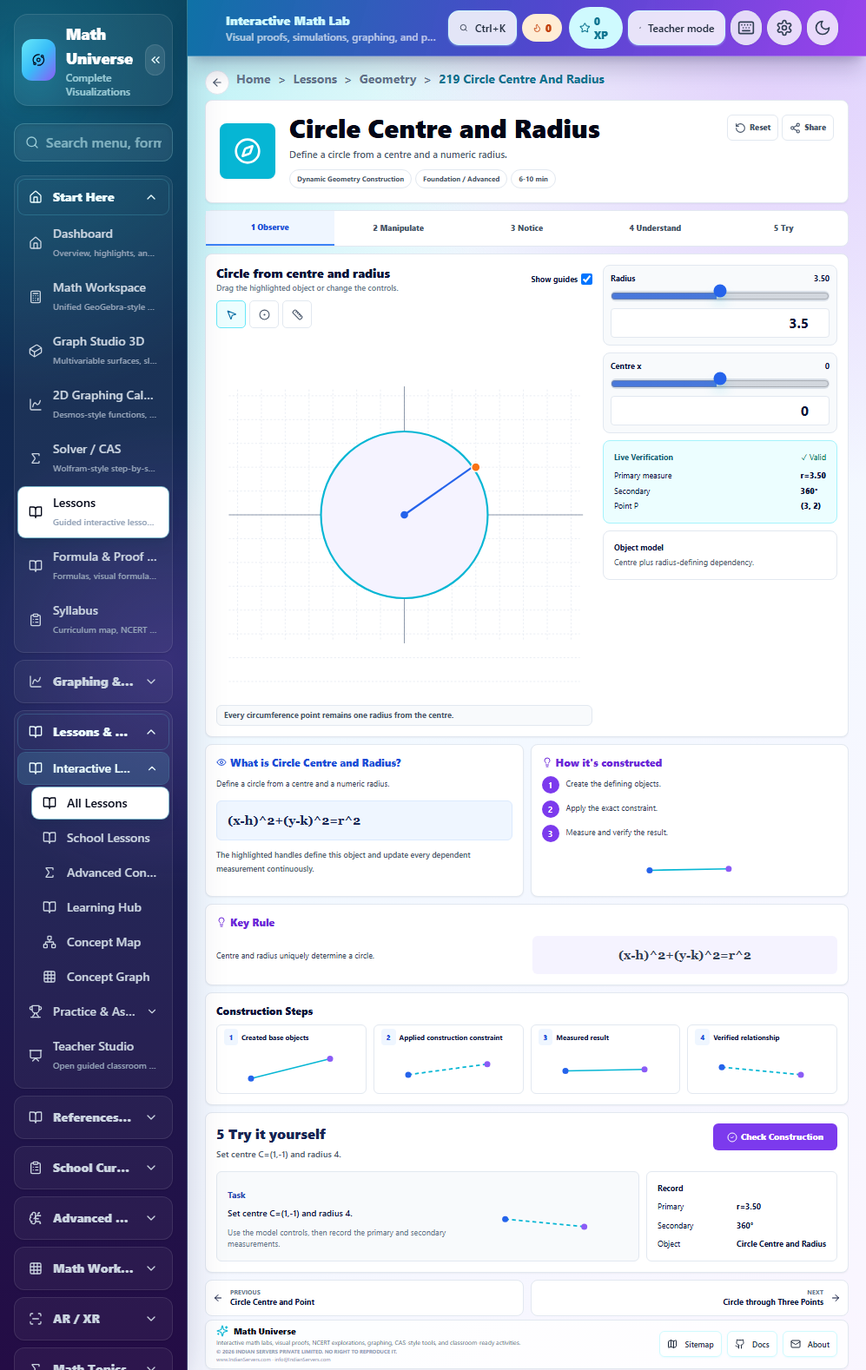
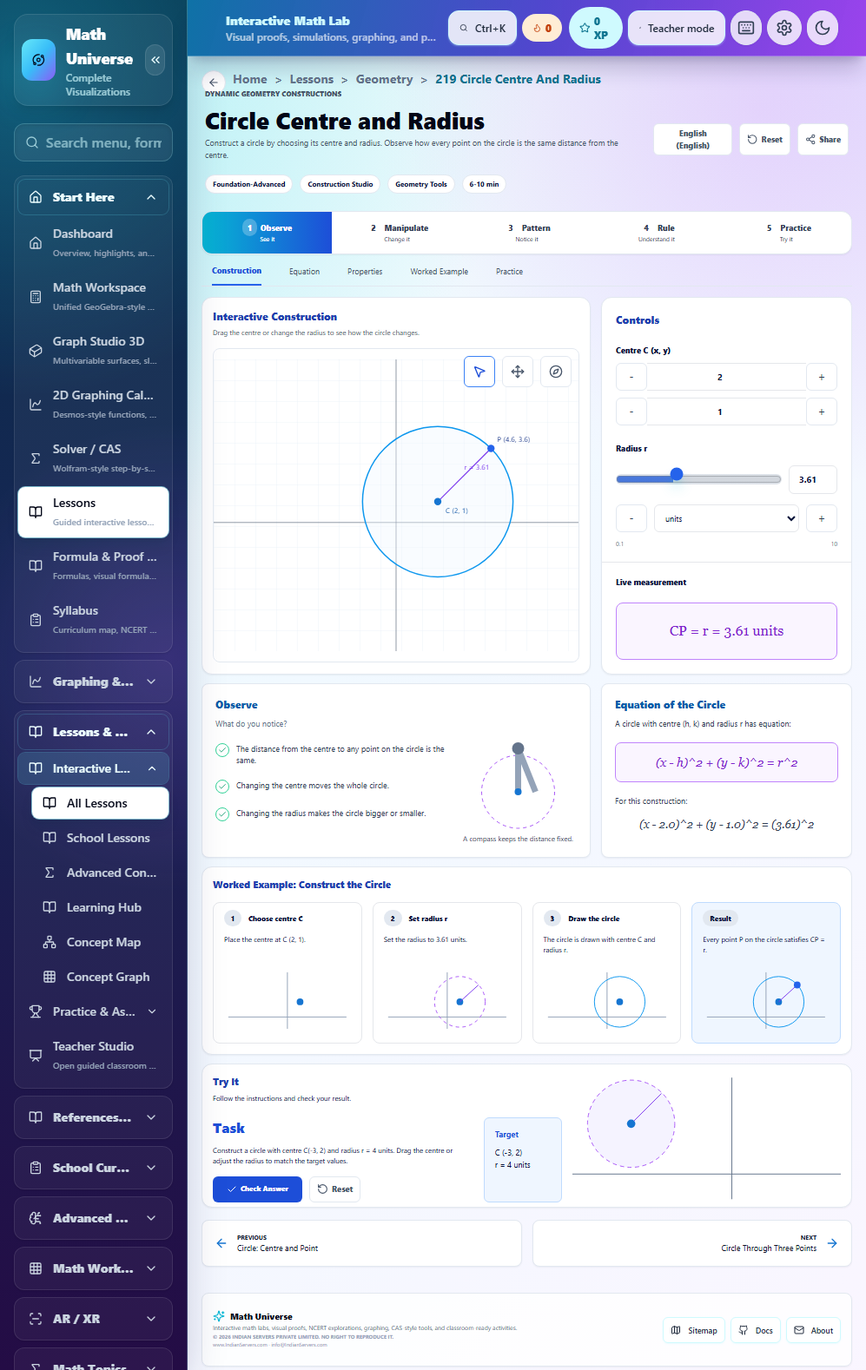
Rebuild circle centre radius lesson to match target UI

diff --git a/src/modules/lessons/adapters/CircleCentreRadiusTargetLesson219.tsx b/src/modules/lessons/adapters/CircleCentreRadiusTargetLesson219.tsx
@@ -1,0 +1,68 @@
+import {
+  ArrowLeft,
+  ArrowRight,
+  Check,
+  Compass,
+  Move,
+  MousePointer2,
+  RotateCcw,
+  Share2,
+} from "lucide-react";
+import {
+  useEffect,
+  useMemo,
+  useState,
+  type PointerEvent as ReactPointerEvent,
+} from "react";
+import type { LessonAdapterProps } from "../types";
+
+type Point={x:number;y:number};
+type Tool="select"|"move"|"compass";
+type Drag="centre"|"radius"|null;
+const initialCentre={x:2,y:1};
+const initialRadius=3.61;
+
+export default function CircleCentreRadiusTargetLesson219({resetToken,onInteraction}:LessonAdapterProps){
+  const [centre,setCentre]=useState<Point>(initialCentre);
+  const [radius,setRadius]=useState(initialRadius);
+  const [angle,setAngle]=useState(45);
+  const [tool,setTool]=useState<Tool>("select");
+  const [drag,setDrag]=useState<Drag>(null);
+  const [units,setUnits]=useState("units");
+  const [feedback,setFeedback]=useState<"idle"|"correct"|"incorrect">("idle");
+  const point=useMemo(()=>({x:centre.x+radius*Math.cos(angle*Math.PI/180),y:centre.y+radius*Math.sin(angle*Math.PI/180)}),[centre,radius,angle]);
+  const reset=()=>{setCentre(initialCentre);setRadius(initialRadius);setAngle(45);setTool('select');setUnits('units');setFeedback('idle');onInteraction()};
+  useEffect(()=>{setCentre(initialCentre);setRadius(initialRadius);setAngle(45);setTool('select');setUnits('units');setFeedback('idle')},[resetToken]);
+  const updateCentre=(next:Point)=>{setCentre({x:clamp(next.x,-6,6),y:clamp(next.y,-5,6)});setFeedback('idle');onInteraction()};
+  const updateRadius=(next:number)=>{setRadius(clamp(next,.1,10));setFeedback('idle');onInteraction()};
+  const check=()=>{setFeedback(Math.hypot(centre.x+3,centre.y-2)<.16&&Math.abs(radius-4)<.08?'correct':'incorrect');onInteraction()};
+
+  return <section className="space-y-3" style={{marginTop:-27}} data-testid="dynamic-geometry-mockup-0276" data-dedicated-lesson="219" data-object-model="circle-centre-fixed-radius" data-direct-interaction="true" aria-label="Circle Centre and Radius dedicated interactive geometry model">
+    <span className="sr-only">Live Verification. Check Construction.</span>
+    <header className="px-1 py-2"><div className="flex items-start justify-between gap-4"><div><p className="text-[8px] font-black uppercase text-slate-600">Dynamic Geometry Constructions</p><h1 className="mt-2 text-[27px] font-black leading-8 text-slate-950">Circle Centre and Radius</h1><p className="mt-1 text-[9px] text-slate-600">Construct a circle by choosing its centre and radius. Observe how every point on the circle is the same distance from the centre.</p></div><div className="mt-10 flex gap-2"><button type="button" className="target-geometry-action">English (English)</button><button type="button" className="target-geometry-action" onClick={reset}><RotateCcw/>Reset</button><button type="button" className="target-geometry-action" onClick={()=>{void navigator.clipboard?.writeText(location.href);onInteraction()}}><Share2/>Share</button></div></div><div className="mt-4 flex flex-wrap gap-2 text-[8px] font-bold"><span className="target-geometry-chip">Foundation-Advanced</span><span className="target-geometry-chip">Construction Studio</span><span className="target-geometry-chip">Geometry Tools</span><span className="target-geometry-chip">6-10 min</span></div></header>
+    <nav className="grid grid-cols-5 overflow-hidden rounded-xl border border-slate-200 bg-white shadow-sm">{[['Observe','See it'],['Manipulate','Change it'],['Pattern','Notice it'],['Rule','Understand it'],['Practice','Try it']].map(([label,sub],index)=><button type="button" key={label} className={`h-12 text-[9px] font-black ${index===0?'bg-gradient-to-r from-cyan-500 to-blue-700 text-white':'text-slate-700'}`} onClick={()=>{document.getElementById(index===4?'radius-practice':`radius-${index}`)?.scrollIntoView({behavior:'smooth',block:'center'});onInteraction()}}><span className="mr-1 rounded-full bg-white/25 px-1.5 py-1">{index+1}</span>{label}<small className="block text-[7px] font-normal">{sub}</small></button>)}</nav>
+    <nav className="flex gap-8 border-b border-slate-200 px-3 text-[9px] text-slate-600">{['Construction','Equation','Properties','Worked Example','Practice'].map((label,index)=><button type="button" key={label} className={`pb-2 ${index===0?'border-b-2 border-blue-600 font-black text-blue-700':''}`} onClick={()=>{document.getElementById(index===0?'radius-0':index===3?'radius-worked':index===4?'radius-practice':'radius-2')?.scrollIntoView({behavior:'smooth',block:'center'});onInteraction()}}>{label}</button>)}</nav>
+
+    <section id="radius-0" className="grid gap-3 md:grid-cols-[1.55fr_1fr]">
+      <div className="rounded-xl border border-slate-200 bg-white p-3 shadow-sm"><h2 className="text-[12px] font-black text-blue-800">Interactive Construction</h2><p className="mt-1 text-[8px] text-slate-600">Drag the centre or change the radius to see how the circle changes.</p><div className="relative mt-3 rounded-lg border border-slate-200"><div className="absolute right-2 top-2 z-10 flex gap-2"><Tool active={tool==='select'} label="Select" icon={<MousePointer2/>} onClick={()=>setTool('select')}/><Tool active={tool==='move'} label="Move circle" icon={<Move/>} onClick={()=>setTool('move')}/><Tool active={tool==='compass'} label="Adjust radius with compass" icon={<Compass/>} onClick={()=>setTool('compass')}/></div><RadiusCanvas centre={centre} radius={radius} point={point} tool={tool} drag={drag} onDrag={setDrag} onCentre={updateCentre} onRadius={(value,newAngle)=>{updateRadius(value);setAngle(newAngle)}}/></div></div>
+      <aside className="rounded-xl border border-slate-200 bg-white shadow-sm"><div className="p-4"><h2 className="text-[12px] font-black text-blue-800">Controls</h2><p className="mt-5 text-[9px] font-black">Centre C (x, y)</p><Stepper label="Centre x" value={centre.x} onChange={x=>updateCentre({...centre,x})}/><Stepper label="Centre y" value={centre.y} onChange={y=>updateCentre({...centre,y})}/><p className="mt-5 text-[9px] font-black">Radius r</p><div className="mt-3 flex items-center gap-2"><input aria-label="Circle radius" className="min-w-0 flex-1 accent-blue-600" type="range" min="0.1" max="10" step="0.01" value={radius} onChange={event=>updateRadius(Number(event.target.value))}/><input aria-label="Radius exact value" className="w-14 rounded-md border px-2 py-2 text-right text-[10px] font-bold" type="number" min="0.1" max="10" step="0.01" value={Number(radius.toFixed(2))} onChange={event=>updateRadius(Number(event.target.value))}/></div><div className="mt-3 grid grid-cols-[36px_1fr_36px] gap-2"><button type="button" className="target-radius-step" aria-label="Decrease radius" onClick={()=>updateRadius(radius-.1)}>-</button><select aria-label="Radius units" className="rounded-md border px-2 text-[9px]" value={units} onChange={event=>{setUnits(event.target.value);onInteraction()}}><option>units</option><option>cm</option><option>mm</option></select><button type="button" className="target-radius-step" aria-label="Increase radius" onClick={()=>updateRadius(radius+.1)}>+</button></div><div className="mt-2 flex justify-between text-[7px] text-slate-500"><span>0.1</span><span>10</span></div></div><div className="border-t p-4"><p className="text-[9px] font-black">Live measurement</p><p data-testid="fixed-radius-measurement" className="mt-4 rounded-lg border border-purple-400 bg-purple-50 px-4 py-5 text-center font-serif text-[16px] text-purple-700">CP = r = {radius.toFixed(2)} {units}</p></div></aside>
+    </section>
+
+    <section id="radius-2" className="grid gap-3 md:grid-cols-[1.55fr_1fr]" style={{marginTop:10}}><article className="target-radius-card"><h2>Observe</h2><p className="text-slate-500">What do you notice?</p><div className="grid grid-cols-[1fr_135px]"><div>{['The distance from the centre to any point on the circle is the same.','Changing the centre moves the whole circle.','Changing the radius makes the circle bigger or smaller.'].map(text=><p key={text} className="mt-4 flex gap-2"><Check className="h-4 w-4 shrink-0 rounded-full border border-emerald-400 p-0.5 text-emerald-600"/>{text}</p>)}</div><CompassDiagram/></div></article><article className="target-radius-card"><h2>Equation of the Circle</h2><p>A circle with centre (h, k) and radius r has equation:</p><p className="target-radius-formula">(x - h)^2 + (y - k)^2 = r^2</p><p>For this construction:</p><p className="mt-3 text-center font-serif text-[13px] italic">(x - {signed(centre.x)})^2 + (y - {signed(centre.y)})^2 = ({radius.toFixed(2)})^2</p></article></section>
+
+    <section id="radius-worked" className="rounded-xl border border-slate-200 bg-white p-3 shadow-sm" style={{marginTop:10}}><h2 className="text-[11px] font-black text-blue-800">Worked Example: Construct the Circle</h2><div className="mt-3 grid grid-cols-4 gap-3"><WorkStep number="1" title="Choose centre C" text="Place the centre at C (2, 1)." kind="point"/><WorkStep number="2" title="Set radius r" text="Set the radius to 3.61 units." kind="radius"/><WorkStep number="3" title="Draw the circle" text="The circle is drawn with centre C and radius r." kind="circle"/><WorkStep number="Result" title="" text="Every point P on the circle satisfies CP = r." kind="result"/></div></section>
+    <section id="radius-practice" className="grid h-[166px] gap-3 rounded-xl border border-slate-200 bg-white p-3 shadow-sm md:grid-cols-[1.3fr_1fr]" style={{marginTop:10}}><div><h2 className="text-[11px] font-black text-blue-800">Try It</h2><p className="mt-1 text-[8px]">Follow the instructions and check your result.</p><div className="mt-4 grid grid-cols-[1fr_90px] gap-5"><div><h3 className="font-black text-blue-700">Task</h3><p className="mt-2 text-[8px]">Construct a circle with centre C(-3, 2) and radius r = 4 units. Drag the centre or adjust the radius to match the target values.</p><div className="mt-3 flex gap-2"><button type="button" className="rounded-md bg-blue-700 px-4 py-2 text-[8px] font-black text-white" onClick={check}><Check className="mr-1 inline h-3 w-3"/>Check Answer</button><button type="button" className="target-geometry-action" onClick={reset}><RotateCcw/>Reset</button></div>{feedback!=='idle'&&<p role="status" className={`mt-2 font-black ${feedback==='correct'?'text-emerald-700':'text-rose-700'}`}>{feedback==='correct'?'Correct centre and radius construction.':'Set C to (-3, 2) and r to 4.'}</p>}</div><div className="rounded-md border border-blue-200 bg-blue-50 p-3 text-[9px]"><b className="text-blue-700">Target</b><p className="mt-2">C (-3, 2)</p><p>r = 4 units</p></div></div></div><TargetPreview/></section>
+    <nav className="grid grid-cols-2 gap-3" style={{marginTop:14}} aria-label="Adjacent lessons"><a className="target-radius-nav" href="/lessons/geometry/218-circle-centre-and-point"><ArrowLeft/><span><b>Previous</b>Circle: Centre and Point</span></a><a className="target-radius-nav justify-end text-right" href="/lessons/geometry/220-circle-through-three-points"><span><b>Next</b>Circle Through Three Points</span><ArrowRight/></a></nav>
+  </section>
+}
+
+function RadiusCanvas({centre,radius,point,tool,drag,onDrag,onCentre,onRadius}:{centre:Point;radius:number;point:Point;tool:Tool;drag:Drag;onDrag:(drag:Drag)=>void;onCentre:(point:Point)=>void;onRadius:(radius:number,angle:number)=>void}){const domain=(event:ReactPointerEvent<SVGSVGElement>)=>{const matrix=event.currentTarget.getScreenCTM();if(!matrix)return centre;const local=new DOMPoint(event.clientX,event.clientY).matrixTransform(matrix.inverse());return{x:(local.x-350)/40,y:(313-local.y)/40}};const screen=(p:Point)=>({x:350+p.x*40,y:313-p.y*40}),c=screen(centre),p=screen(point);return <svg role="img" aria-label="Interactive fixed-radius circle with draggable centre and compass handle" className="h-[360px] w-full touch-none" viewBox="0 0 700 560" onPointerMove={event=>{if(!drag)return;const next=domain(event);if(drag==='centre')onCentre(next);else onRadius(Math.hypot(next.x-centre.x,next.y-centre.y),Math.atan2(next.y-centre.y,next.x-centre.x)*180/Math.PI)}} onPointerUp={()=>onDrag(null)} onPointerCancel={()=>onDrag(null)}><defs><pattern id="fixed-radius-grid" width="40" height="40" patternUnits="userSpaceOnUse"><path d="M40 0H0V40" fill="none" stroke="#dfe9f3"/></pattern></defs><rect width="700" height="560" fill="url(#fixed-radius-grid)"/><line x1="0" y1="313" x2="700" y2="313" stroke="#475569"/><line x1="350" y1="0" x2="350" y2="560" stroke="#475569"/><circle data-testid="fixed-radius-circle" data-radius={radius.toFixed(4)} cx={c.x} cy={c.y} r={radius*40} fill="#eff8ff" fillOpacity=".4" stroke="#0d97ee" strokeWidth="2.5"/><line x1={c.x} y1={c.y} x2={p.x} y2={p.y} stroke="#7c3aed" strokeWidth="2"/><circle data-testid="fixed-radius-centre" cx={c.x} cy={c.y} r="7" fill="#1675d1" className="cursor-move" onPointerDown={event=>{event.currentTarget.ownerSVGElement?.setPointerCapture(event.pointerId);onDrag('centre')}}/><circle data-testid="fixed-radius-handle" cx={p.x} cy={p.y} r="7" fill="#2563eb" className="cursor-move" onPointerDown={event=>{event.currentTarget.ownerSVGElement?.setPointerCapture(event.pointerId);onDrag('radius')}}/><text x={c.x+15} y={c.y+22} fill="#175aa7" fontSize="14">C ({format(centre.x)}, {format(centre.y)})</text><text x={p.x+12} y={p.y-12} fill="#1e3a8a" fontSize="14">P ({format(point.x)}, {format(point.y)})</text><text x={(c.x+p.x)/2} y={(c.y+p.y)/2-10} fill="#7c3aed" fontSize="14">r = {radius.toFixed(2)}</text></svg>}
+function Stepper({label,value,onChange}:{label:string;value:number;onChange:(value:number)=>void}){return <div className="mt-2 grid grid-cols-[36px_1fr_36px]"><button type="button" className="target-radius-step rounded-r-none" aria-label={`Decrease ${label}`} onClick={()=>onChange(value-1)}>-</button><input aria-label={label} type="number" step="1" className="min-w-0 border-y px-3 text-center text-[10px] font-bold" value={Number(value.toFixed(1))} onChange={event=>onChange(Number(event.target.value))}/><button type="button" className="target-radius-step rounded-l-none" aria-label={`Increase ${label}`} onClick={()=>onChange(value+1)}>+</button></div>}
+function Tool({active,label,icon,onClick}:{active:boolean;label:string;icon:React.ReactNode;onClick:()=>void}){return <button type="button" aria-pressed={active} aria-label={label} className={`grid h-9 w-9 place-items-center rounded-md border bg-white [&>svg]:h-4 [&>svg]:w-4 ${active?'border-blue-500 text-blue-700':'border-slate-200 text-slate-600'}`} onClick={onClick}>{icon}</button>}
+function CompassDiagram(){return <div className="text-center text-[8px]"><svg className="h-[120px] w-full" viewBox="0 0 130 120"><circle cx="65" cy="72" r="42" fill="none" stroke="#a855f7" strokeDasharray="4 4"/><line x1="65" y1="72" x2="65" y2="22" stroke="#94a3b8" strokeWidth="7"/><line x1="65" y1="22" x2="85" y2="72" stroke="#94a3b8" strokeWidth="7"/><circle cx="65" cy="22" r="7" fill="#64748b"/><circle cx="65" cy="72" r="4" fill="#1675d1"/></svg>A compass keeps the distance fixed.</div>}
+function WorkStep({number,title,text,kind}:{number:string;title:string;text:string;kind:string}){return <article className={`rounded-lg border p-3 text-[8px] ${kind==='result'?'border-blue-200 bg-blue-50':''}`}><h3 className="font-black"><span className="mr-2 rounded-full bg-slate-200 px-2 py-1">{number}</span>{title}</h3><p className="mt-3 min-h-[30px]">{text}</p><MiniStep kind={kind}/></article>}
+function MiniStep({kind}:{kind:string}){return <svg className="mt-2 h-[75px] w-full" viewBox="0 0 150 75"><line x1="5" y1="58" x2="145" y2="58" stroke="#94a3b8"/><line x1="75" y1="5" x2="75" y2="72" stroke="#94a3b8"/>{kind!=='point'&&<circle cx="90" cy="40" r="30" fill="none" stroke={kind==='radius'?'#a855f7':'#0d97ee'} strokeDasharray={kind==='radius'?'4 4':undefined}/>}<circle cx="90" cy="40" r="4" fill="#1675d1"/>{kind==='radius'&&<line x1="90" y1="40" x2="112" y2="20" stroke="#7c3aed"/>}{kind==='result'&&<><line x1="90" y1="40" x2="112" y2="20" stroke="#7c3aed"/><circle cx="112" cy="20" r="4" fill="#2563eb"/></>}</svg>}
+function TargetPreview(){return <svg className="h-full w-full" viewBox="0 0 320 145"><line x1="0" y1="115" x2="320" y2="115" stroke="#64748b"/><line x1="190" y1="0" x2="190" y2="145" stroke="#64748b"/><circle cx="70" cy="55" r="52" fill="#f5f3ff" stroke="#a855f7" strokeDasharray="5 4"/><line x1="70" y1="55" x2="106" y2="19" stroke="#7c3aed"/><circle cx="70" cy="55" r="5" fill="#1675d1"/></svg>}
+function signed(value:number){return value<0?`(${value.toFixed(1)})`:value.toFixed(1)}
+function format(value:number){return Number(value.toFixed(1)).toString()}
+function clamp(value:number,min:number,max:number){return Math.min(max,Math.max(min,value))}

diff --git a/src/components/layout/AppLayout.tsx b/src/components/layout/AppLayout.tsx
@@ -56,6 +56,8 @@ function AppFooter() {
   const isCompassTarget = location.pathname === "/lessons/geometry/221-compass";
   const isGeneralPolygonTarget =
     location.pathname === "/lessons/geometry/217-general-polygon";
+  const isCircleCentreRadiusTarget =
+    location.pathname === "/lessons/geometry/219-circle-centre-and-radius";
   const usesTargetCompactFooter =
     isRightTriangleTarget ||
     location.pathname === "/lessons/geometry/205-segment-with-given-length" ||
@@ -85,7 +87,7 @@ function AppFooter() {
   if (usesTargetCompactFooter) {
     return (
       <footer
-        className={`mx-auto w-full max-w-[1440px] py-1 ${isCompassTarget || isGeneralPolygonTarget ? "h-[93px] px-4" : "h-[65px] px-5"}`}
+        className={`mx-auto w-full max-w-[1440px] py-1 ${isCompassTarget || isGeneralPolygonTarget || isCircleCentreRadiusTarget ? "h-[93px] px-4" : "h-[65px] px-5"}`}
         aria-label="Site footer"
       >
         <div className="grid h-full grid-cols-[minmax(0,1fr)_auto] items-center rounded-lg border border-slate-200 bg-white/80 px-3 shadow-sm">
@@ -273,6 +275,8 @@ export default function AppLayout() {
     location.pathname === "/lessons/geometry/216-rigid-polygon";
   const isGeneralPolygonTarget =
     location.pathname === "/lessons/geometry/217-general-polygon";
+  const isCircleCentreRadiusTarget =
+    location.pathname === "/lessons/geometry/219-circle-centre-and-radius";
 
   useEffect(() => {
     setMobileOpen(false);
@@ -399,7 +403,7 @@ export default function AppLayout() {
           <main
             ref={mainContentRef}
             id="main-content"
-            className={`app-fullscreen-target mx-auto w-full max-w-[1440px] flex-1 pb-24 pt-2 md:pb-0 md:pt-4 ${isCompassTarget || isRigidPolygonTarget ? "px-3" : isGeneralPolygonTarget ? "px-4" : "px-2 sm:px-4 md:px-5"}`}
+            className={`app-fullscreen-target mx-auto w-full max-w-[1440px] flex-1 pb-24 pt-2 md:pb-0 md:pt-4 ${isCompassTarget || isRigidPolygonTarget ? "px-3" : isGeneralPolygonTarget || isCircleCentreRadiusTarget ? "px-4" : "px-2 sm:px-4 md:px-5"}`}
           >
             {!location.pathname.startsWith("/lessons/") && (
               <button

diff --git a/src/index.css b/src/index.css
@@ -294,6 +294,75 @@
   text-transform: uppercase;
 }
 
+.target-radius-step {
+  display: grid;
+  height: 32px;
+  place-items: center;
+  border: 1px solid #e2e8f0;
+  border-radius: 6px;
+  background: white;
+  color: #334155;
+  font-size: 13px;
+}
+
+.target-radius-card {
+  min-height: 185px;
+  border: 1px solid #e2e8f0;
+  border-radius: 8px;
+  background: white;
+  padding: 15px;
+  color: #334155;
+  font-size: 9px;
+  line-height: 1.45;
+  box-shadow: 0 1px 2px rgb(15 23 42 / 0.05);
+}
+
+.target-radius-card h2 {
+  margin-bottom: 7px;
+  color: #075baa;
+  font-size: 12px;
+  font-weight: 900;
+}
+
+.target-radius-formula {
+  margin: 15px 0;
+  border: 1px solid #c084fc;
+  border-radius: 7px;
+  background: #faf5ff;
+  padding: 12px;
+  text-align: center;
+  color: #7e22ce;
+  font-family: Georgia, serif;
+  font-size: 14px;
+  font-style: italic;
+}
+
+.target-radius-nav {
+  display: flex;
+  height: 54px;
+  align-items: center;
+  gap: 10px;
+  border: 1px solid #e2e8f0;
+  border-radius: 8px;
+  background: white;
+  padding: 8px 14px;
+  color: #0f172a;
+  font-size: 9px;
+  box-shadow: 0 1px 2px rgb(15 23 42 / 0.05);
+}
+
+.target-radius-nav svg {
+  width: 16px;
+  height: 16px;
+  color: #1675d1;
+}
+
+.target-radius-nav b {
+  display: block;
+  font-size: 7px;
+  text-transform: uppercase;
+}
+
 :root {
   color-scheme: light;
   font-synthesis: none;

diff --git a/src/modules/lessons/adapters/Geometry2DLessonAdapter.test.tsx b/src/modules/lessons/adapters/Geometry2DLessonAdapter.test.tsx
@@ -570,6 +570,24 @@ describe("Geometry2DLessonAdapter", () => {
     expect(html).not.toContain('aria-label="Point distance"');
   });
 
+  it("renders Circle Centre and Radius with an independent fixed radius", () => {
+    const lesson = lessonCatalog.find((item) => item.id === 219)!;
+    const html = renderToStaticMarkup(
+      <Geometry2DLessonAdapter lesson={lesson} resetToken={0} onInteraction={vi.fn()} />,
+    );
+
+    expect(html).toContain("Interactive fixed-radius circle with draggable centre and compass handle");
+    expect(html).toContain('data-testid="fixed-radius-circle"');
+    expect(html).toContain('data-testid="fixed-radius-centre"');
+    expect(html).toContain('data-testid="fixed-radius-handle"');
+    expect(html).toContain('aria-label="Circle radius"');
+    expect(html).toContain('aria-label="Centre x"');
+    expect(html).toContain("Equation of the Circle");
+    expect(html).toContain("Construct a circle with centre C(-3, 2)");
+    expect(html).toContain("Check Answer");
+    expect(html).not.toContain('aria-label="Centre x" type="range"');
+  });
+
   it("renders geometry lessons 236 through 245 with transformation guidance", () => {
     const expectedSnippets: Record<number, string> = {
       236: "Translation by vector",

diff --git a/src/modules/lessons/adapters/GeometryTargetLessons206to235.tsx b/src/modules/lessons/adapters/GeometryTargetLessons206to235.tsx
@@ -32,6 +32,7 @@ import RegularPolygonTargetLesson from "./RegularPolygonTargetLesson215";
 import RigidPolygonTargetLesson from "./RigidPolygonTargetLesson216";
 import GeneralPolygonTargetLesson from "./GeneralPolygonTargetLesson217";
 import CircleCentrePointTargetLesson from "./CircleCentrePointTargetLesson218";
+import CircleCentreRadiusTargetLesson from "./CircleCentreRadiusTargetLesson219";
 import CompassTargetLesson from "./CompassTargetLesson221";
 import RayTargetLesson from "./RayTargetLesson206";
 
@@ -542,8 +543,7 @@ function named(id: number) {
     <DedicatedGeometrySurface {...props} spec={specs[id]} />
   );
 }
-export const CircleCentreRadiusTargetLesson = named(219),
-  CircleThreePointsTargetLesson = named(220),
+export const CircleThreePointsTargetLesson = named(220),
   SemicircleTargetLesson = named(222),
   CircularArcTargetLesson = named(223),
   CircumcircularArcTargetLesson = named(224),

diff --git a/test-evidence/lesson-ui-upgrade/0263-0292-dynamic-geometry-progress-note.md b/test-evidence/lesson-ui-upgrade/0263-0292-dynamic-geometry-progress-note.md
@@ -28,7 +28,7 @@ Updated 2026-08-24. This batch replaces the generic construction fallback for le
 | 0273 | 216 Rigid Polygon | `rigidTriangleMotion` | Reworked individually and browser-validated |
 | 0274 | 217 General Polygon | `editableGeneralPolygon` | Reworked individually and browser-validated |
 | 0275 | 218 Circle Centre and Point | `circleCentreThroughPoint` | Reworked individually and browser-validated |
-| 0276 | 219 Circle Centre and Radius | `circleRadius` | Implemented and browser-validated |
+| 0276 | 219 Circle Centre and Radius | `circleCentreFixedRadius` | Reworked individually and browser-validated |
 | 0277 | 220 Circle through Three Points | `circleThree` | Implemented and browser-validated |
 | 0278 | 221 Compass | `compassDistanceTransfer` | Reworked individually and browser-validated |
 | 0279 | 222 Semicircle | `semicircle` | Implemented and browser-validated |
@@ -106,6 +106,10 @@ Reworked individually against the target mockup. Removed the generic regular pen
 ### Lesson 218 / Mockup 0275 - Circle Centre and Point
 
 Reworked individually against the target mockup. Removed the generic circle, Point angle and Point distance sliders, generic object-model panel, repeated construction cards, and template verification record. The dedicated construction owns independently draggable and editable centre C and circumference point P; the radius is always the Euclidean distance CP, the diameter is 2r, and the rendered circle, dashed radius, coordinate labels, measurement panel, and distance check derive from those two points. Coordinate locks prevent both direct dragging and field edits. Grid, axes, circle, radius, centre, and point visibility controls are functional. Reset restores the initial C(1, 2), P(5, 4) model. The learning goal, five-stage navigation, object editor, construction explanation, defining property, worked equation, challenge generator/loader, reminder, lesson index, and adjacent navigation reproduce mockup 0275's content hierarchy. Final 1024x1536 browser validation physically drags C and P and confirms each changes CP, edits all four coordinates, verifies the centre lock, exercises all six display controls, generates and loads a challenge, resets the model, and reports no overlap, overflow, or console errors. The dedicated surface ends at 1505px against the target's 1503px boundary.
+
+### Lesson 219 / Mockup 0276 - Circle Centre and Radius
+
+Reworked individually against the target mockup. Removed the generic circle, Radius and Centre x sliders, generic object-model panel, repeated construction cards, and template verification record. The dedicated surface owns centre C, an independent numeric radius r, and an angular compass handle P derived from those values. Dragging C translates the circle and P without changing r; dragging P changes radius and orientation without moving C. Both pointer paths use the SVG screen transformation matrix so the model remains aligned with the cursor at the target aspect ratio. Centre steppers and exact inputs, radius slider/input/steppers, units menu, Select, Move, Compass, reset, language, share, stage navigation, and section navigation are functional. The live CP measurement, dynamic centre-radius equation, observation/compass panel, four-step worked construction, target diagram, and C(-3, 2), r=4 practice check follow mockup 0276. Final 997x1578 browser validation proves translation preserves the exact radius attribute, proves compass dragging preserves the exact centre coordinate, exercises all tools and controls, submits the target construction successfully, reports no overflow or console errors, and places the lesson boundary at 1459px against the target's 1461px boundary.
 
 ### Lesson 221 / Mockup 0278 - Compass
 
